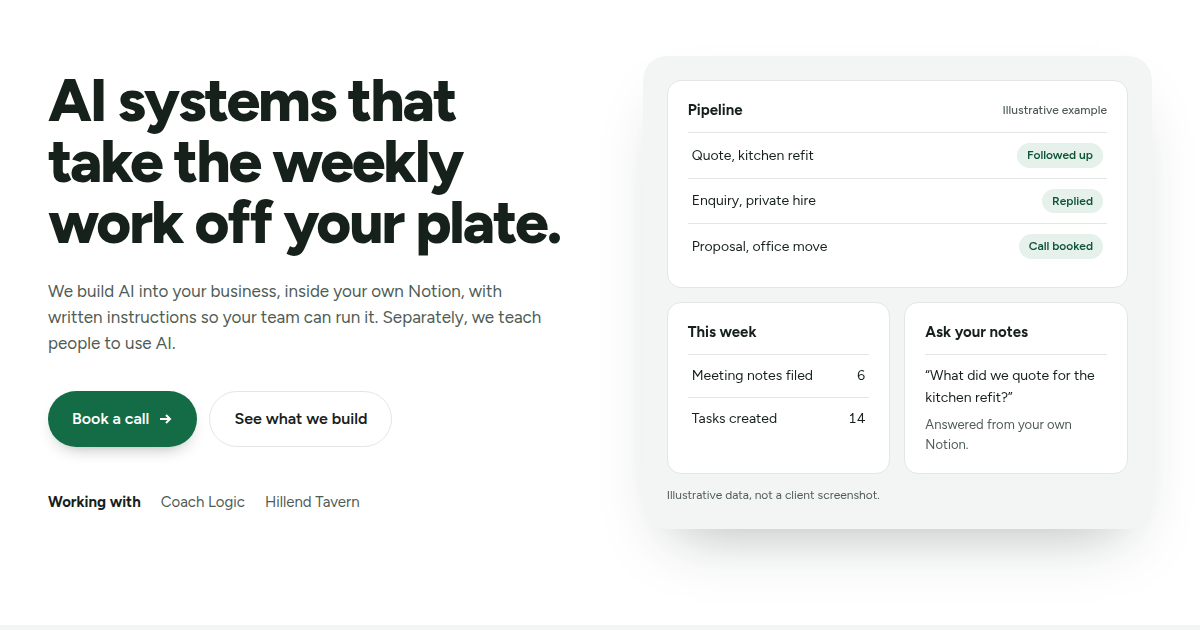
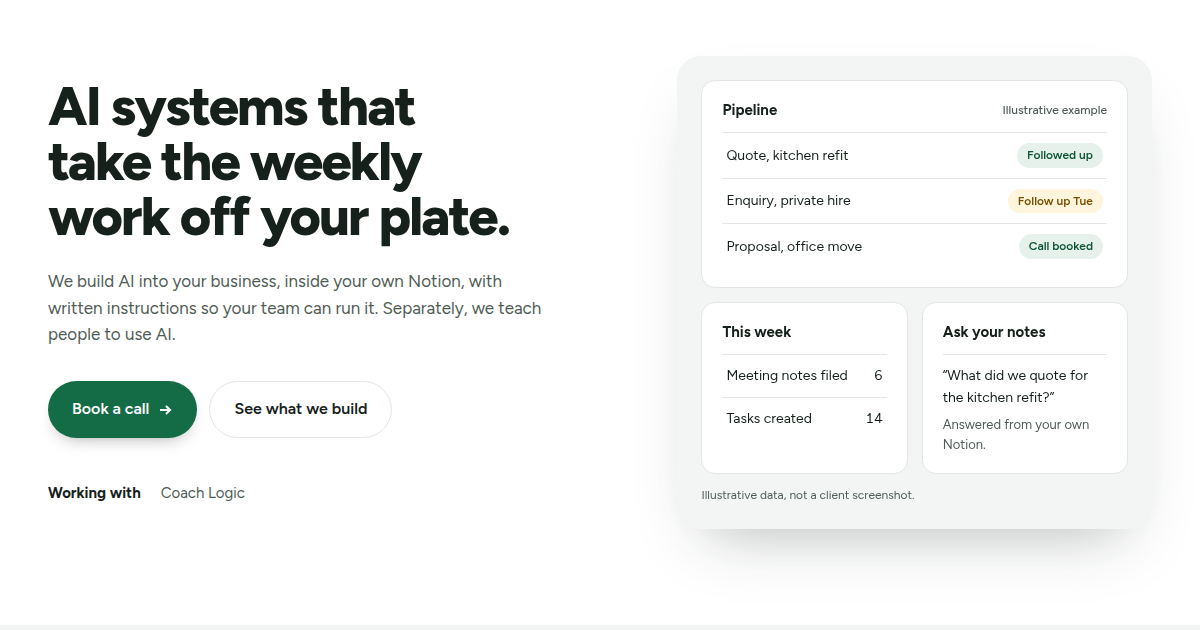
Remove Hillend Tavern from the site
Coach Logic stays as the one named case study.

Claude-Session: https://claude.ai/code/session_01MBTKsyELa39onKPsEkKtmB

diff --git a/index.html b/index.html
@@ -120,7 +120,8 @@ section{padding:clamp(64px,9vw,120px) 0}
 .who table{font-size:16px}.who td:last-child{text-align:left}
 
 /* work */
-.cases{display:grid;grid-template-columns:1fr 1fr;gap:16px}
+.cases{display:grid;grid-template-columns:1fr;gap:16px}
+.case p{max-width:62ch}
 .case{border:1px solid var(--line);border-radius:var(--radius);padding:clamp(24px,3vw,36px);display:flex;flex-direction:column;gap:14px;background:#fff}
 .case .logo{height:34px;display:flex;align-items:center}
 .case .logo img{height:30px;width:auto}
@@ -191,7 +192,7 @@ footer .wrap{display:flex;justify-content:space-between;gap:16px;flex-wrap:wrap}
           <svg viewBox="0 0 16 16" fill="none" stroke="currentColor" stroke-width="2" aria-hidden="true"><path d="M3 8h10M9 4l4 4-4 4"/></svg></a>
         <a class="pill pill-line" href="#build">See what we build</a>
       </div>
-      <p class="clients"><b>Working with</b> <span>Coach Logic</span> <span>Hillend Tavern</span></p>
+      <p class="clients"><b>Working with</b> <span>Coach Logic</span></p>
     </div>
 
     <div class="panel" aria-label="Illustrative example of an AI operations system">
@@ -315,12 +316,6 @@ footer .wrap{display:flex;justify-content:space-between;gap:16px;flex-wrap:wrap}
           <p>The collaborative analysis platform for coaches, founded in 2012 by two rugby coaches. Ashford runs the system that turns its founders' calls and expertise into on-voice content, organised in Notion.</p>
           <div class="meta"><b>Build</b> Marketing agents</div>
           <div class="gap">To add before launch: result and quote from Coach Logic.</div>
-        </article>
-        <article class="case">
-          <div class="logo"><span class="word">Hillend Tavern</span></div>
-          <p>Our first client. We rebuilt the tavern's website.</p>
-          <div class="meta"><a class="go" href="https://hillendtavern.co.uk" rel="noopener">hillendtavern.co.uk</a></div>
-          <div class="gap">To add before launch: result and quote from Hillend Tavern.</div>
         </article>
       </div>
     </div>

diff --git a/PRODUCT.md b/PRODUCT.md
@@ -65,12 +65,11 @@ Commercial shape that may be stated: fixed prices, mostly monthly.
 
 ## Evidence on Hand
 
-Ryan confirmed on 25 Sep 2026 that both clients below have given permission to be named as case studies. Results and quotes will be supplied by Ryan in writing; until then, the site states the work only and leaves marked gaps. Never invent figures, quotes or outcomes.
+Ryan confirmed on 25 Sep 2026 that Coach Logic has given permission to be named as a case study. Hillend Tavern is not showcased on the site (Ryan, 25 Sep 2026). Results and quotes will be supplied by Ryan in writing; until then, the site states the work only and leaves marked gaps. Never invent figures, quotes or outcomes.
 
 | Client | What Ashford did | Status |
 |---|---|---|
 | Coach Logic | Collaborative video analysis platform for coaches, founded 2012 by two rugby coaches. Ashford runs its Founder Media Engine: founders' calls, calendars and footage turned into on-voice content drafts via Notion [Likely, from existing site copy and Ashford workflows; Ryan to confirm wording] | Named, results pending |
-| Hillend Tavern | Website rebuilt, live at hillendtavern.co.uk. First client | Named, results pending. Included at Ryan's decision despite websites being out of scope; must not read as a web design offer |
 
 Absent, do not fabricate: testimonials, attendee numbers, training outcomes, client counts, prices.
 
